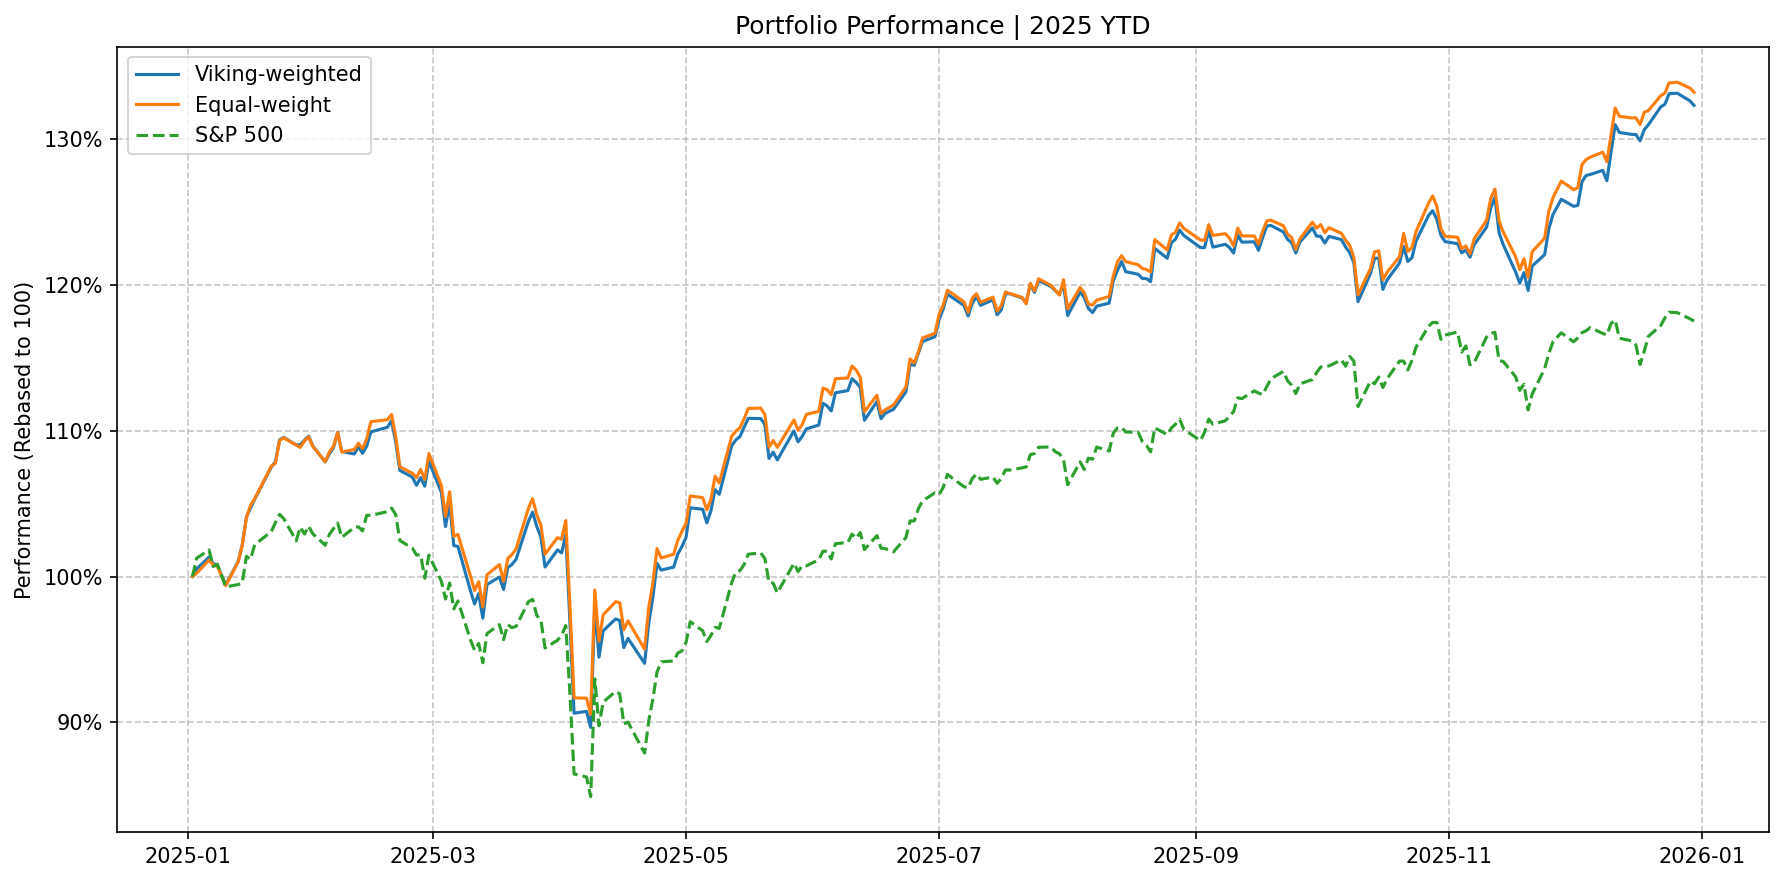
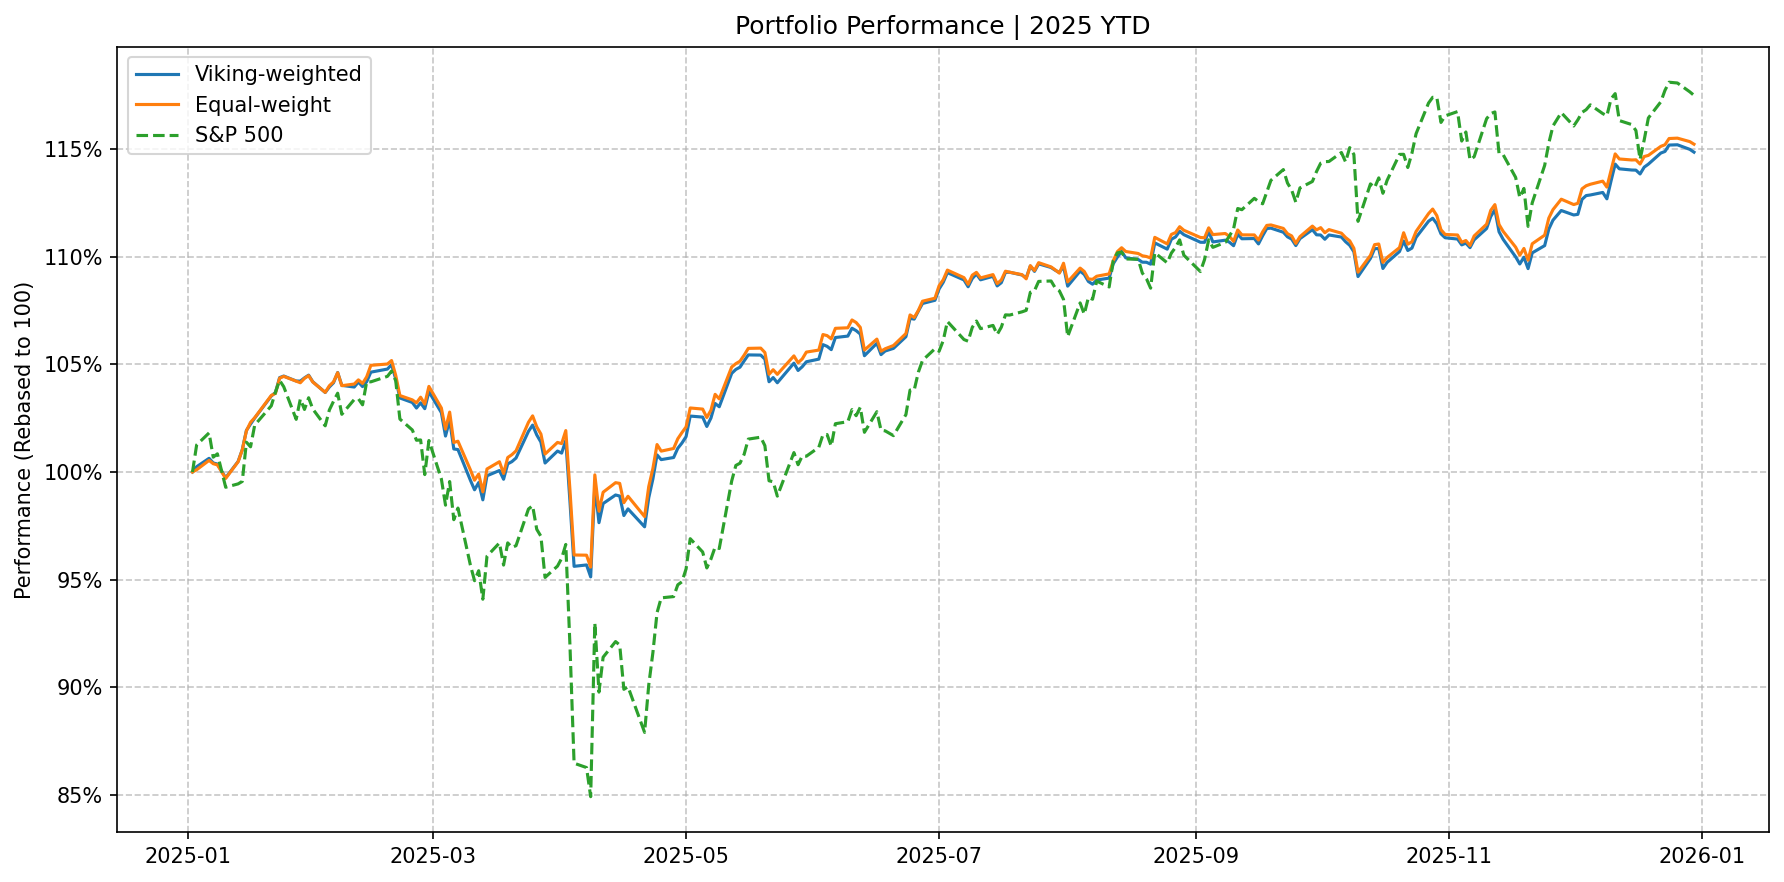
cash as a weight

diff --git a/stock/13f/base_portfolio.py b/stock/13f/base_portfolio.py
@@ -17,6 +17,7 @@ class BasePortfolio:
     """
     FUND_NAME = None  # To be overridden by subclasses
     RAW_WEIGHTS = {}  # To be overridden by subclasses
+    NORMALIZE_WEIGHTS = False
 
     def __init__(self):
         if self.FUND_NAME is None or not self.RAW_WEIGHTS:
@@ -36,22 +37,52 @@ class BasePortfolio:
             dict: Dictionary of ticker to weight mappings
         """
         mode = mode or self.FUND_NAME.lower()
+        weights = self._coerce_weights(self.RAW_WEIGHTS)
+        total = float(sum(weights.values()))
         if mode == self.FUND_NAME.lower():
-            return self.normalize_weights(self.RAW_WEIGHTS)
+            if self.NORMALIZE_WEIGHTS:
+                return self.normalize_weights(weights)
+            if total > 1.0 + 1e-9:
+                raise ValueError(
+                    f"weights sum to {total:.6f} (> 1.0) with NORMALIZE_WEIGHTS=False; "
+                    "reduce RAW_WEIGHTS or set NORMALIZE_WEIGHTS=True"
+                )
+            return weights
         elif mode == "equal":
             return self.equal_weights()
         else:
             raise ValueError(f"weight mode must be '{self.FUND_NAME.lower()}' or 'equal'")
 
     @staticmethod
+    def _coerce_weights(weights: dict[str, float]) -> dict[str, float]:
+        total = float(sum(weights.values()))
+        if total <= 0:
+            raise ValueError("weights must sum to a positive number")
+        if total > 1.0 + 1e-9:
+            raise ValueError(
+                f"weights sum to {total:.6f} (> 1.0). Provide fractional weights (e.g., 4.1% as 0.041) "
+                "or set NORMALIZE_WEIGHTS=True with fractional weights"
+            )
+        return {k: float(v) for k, v in weights.items()}
+
+    @staticmethod
     def normalize_weights(weights):
         """Normalize weights to sum to 1."""
-        total = sum(weights.values())
-        return {k: v / total for k, v in weights.items()}
+        total = float(sum(weights.values()))
+        if total <= 0:
+            raise ValueError("weights must sum to a positive number")
+        return {k: float(v) / total for k, v in weights.items()}
 
     def equal_weights(self):
         """Generate equal weights for all tickers."""
-        return {ticker: 1.0 / self.n for ticker in self.tickers}
+        if self.NORMALIZE_WEIGHTS:
+            return {ticker: 1.0 / self.n for ticker in self.tickers}
+
+        total_stock_weight = float(sum(self._coerce_weights(self.RAW_WEIGHTS).values()))
+        if total_stock_weight <= 0:
+            raise ValueError("weights must sum to a positive number")
+        w = total_stock_weight / self.n
+        return {ticker: w for ticker in self.tickers}
 
     def download_close_prices(self, tickers, start, end):
         """Download adjusted close prices for the given tickers."""

diff --git a/stock/13f/viking_portfolio.py b/stock/13f/viking_portfolio.py
@@ -13,22 +13,22 @@ class VikingPortfolio(BasePortfolio):
 
     # Viking portfolio weights
     RAW_WEIGHTS = {
-        "PNC": 4.1,
-        "JPM": 4.1,
-        "SCHW": 4.1,
-        "COF": 4.1,
-        "MSFT": 3.3,
-        "DIS": 3.1,
-        "TSM": 2.9,
-        "BBIO": 2.7,
-        "MCD": 2.7,
-        "FTV": 2.6,
-        "APD": 2.6,
-        "SHW": 2.6,
-        "V": 2.6,
-        "GM": 2.1,
-        "CVNA": 2.1,
-        "TMUS": 2.0,
+        "PNC": 0.041,
+        "JPM": 0.041,
+        "SCHW": 0.041,
+        "COF": 0.041,
+        "MSFT": 0.033,
+        "DIS": 0.031,
+        "TSM": 0.029,
+        "BBIO": 0.027,
+        "MCD": 0.027,
+        "FTV": 0.026,
+        "APD": 0.026,
+        "SHW": 0.026,
+        "V": 0.026,
+        "GM": 0.021,
+        "CVNA": 0.021,
+        "TMUS": 0.020,
     }
 
 
